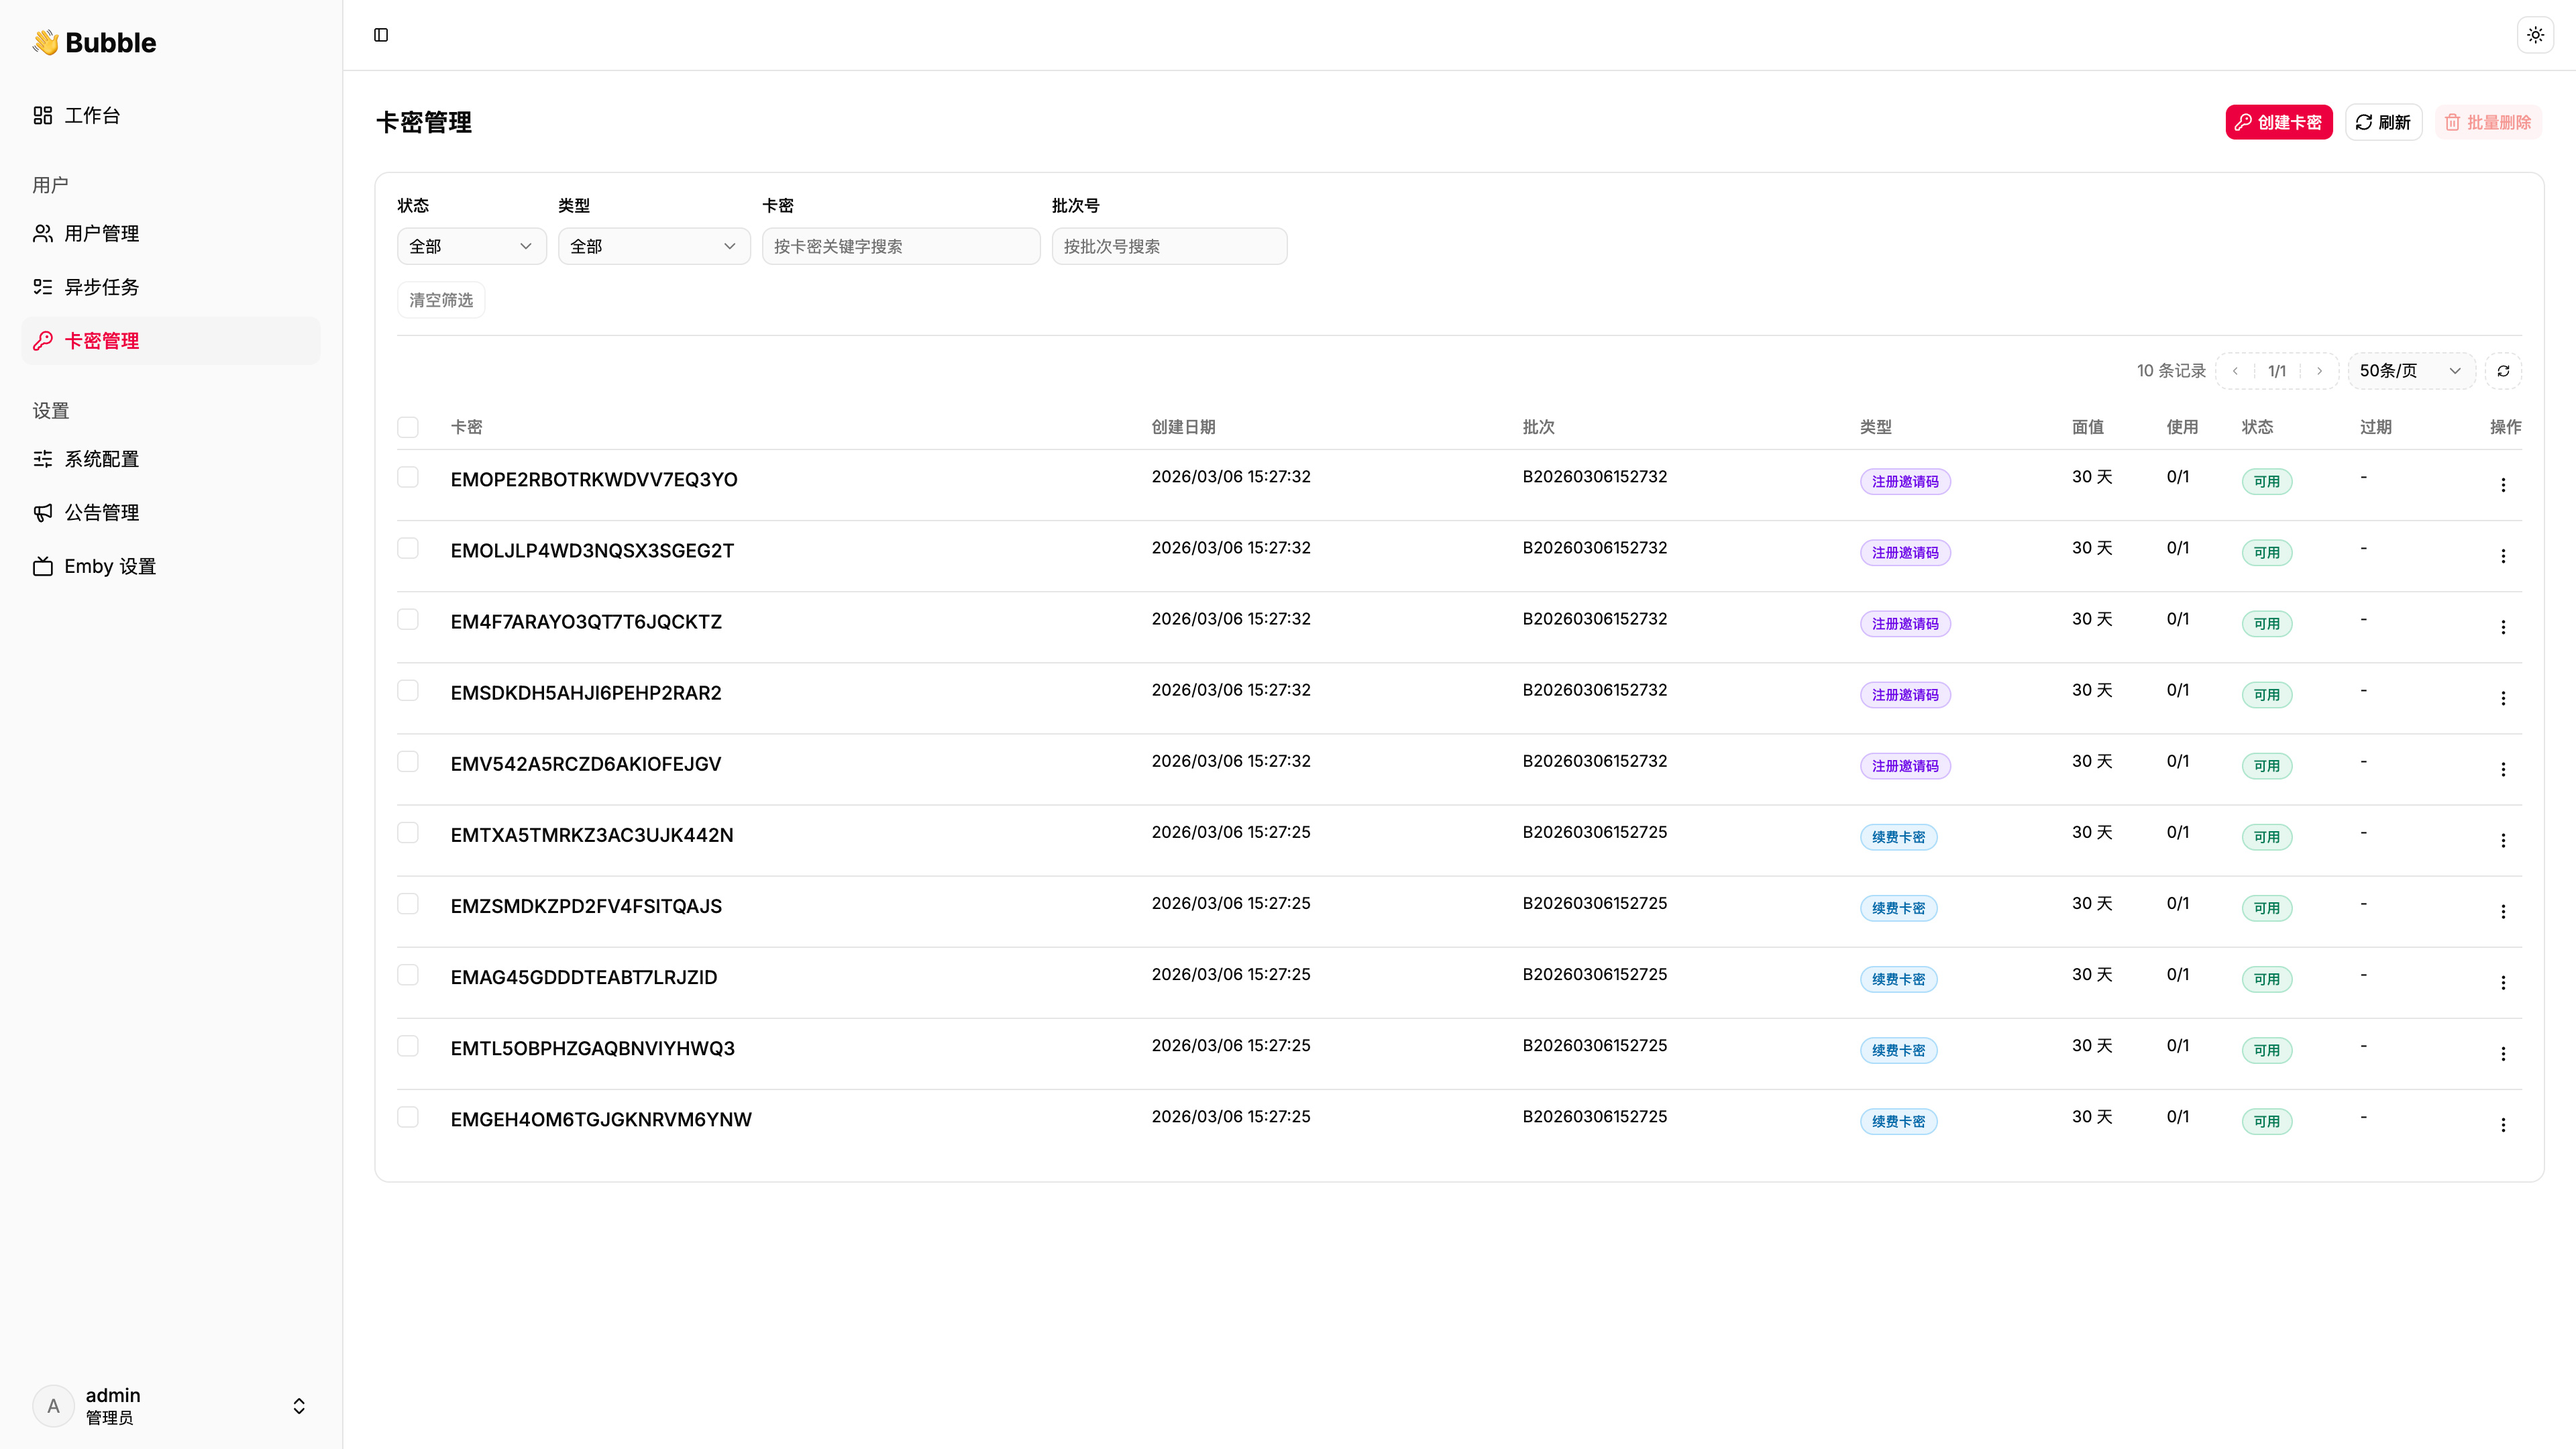
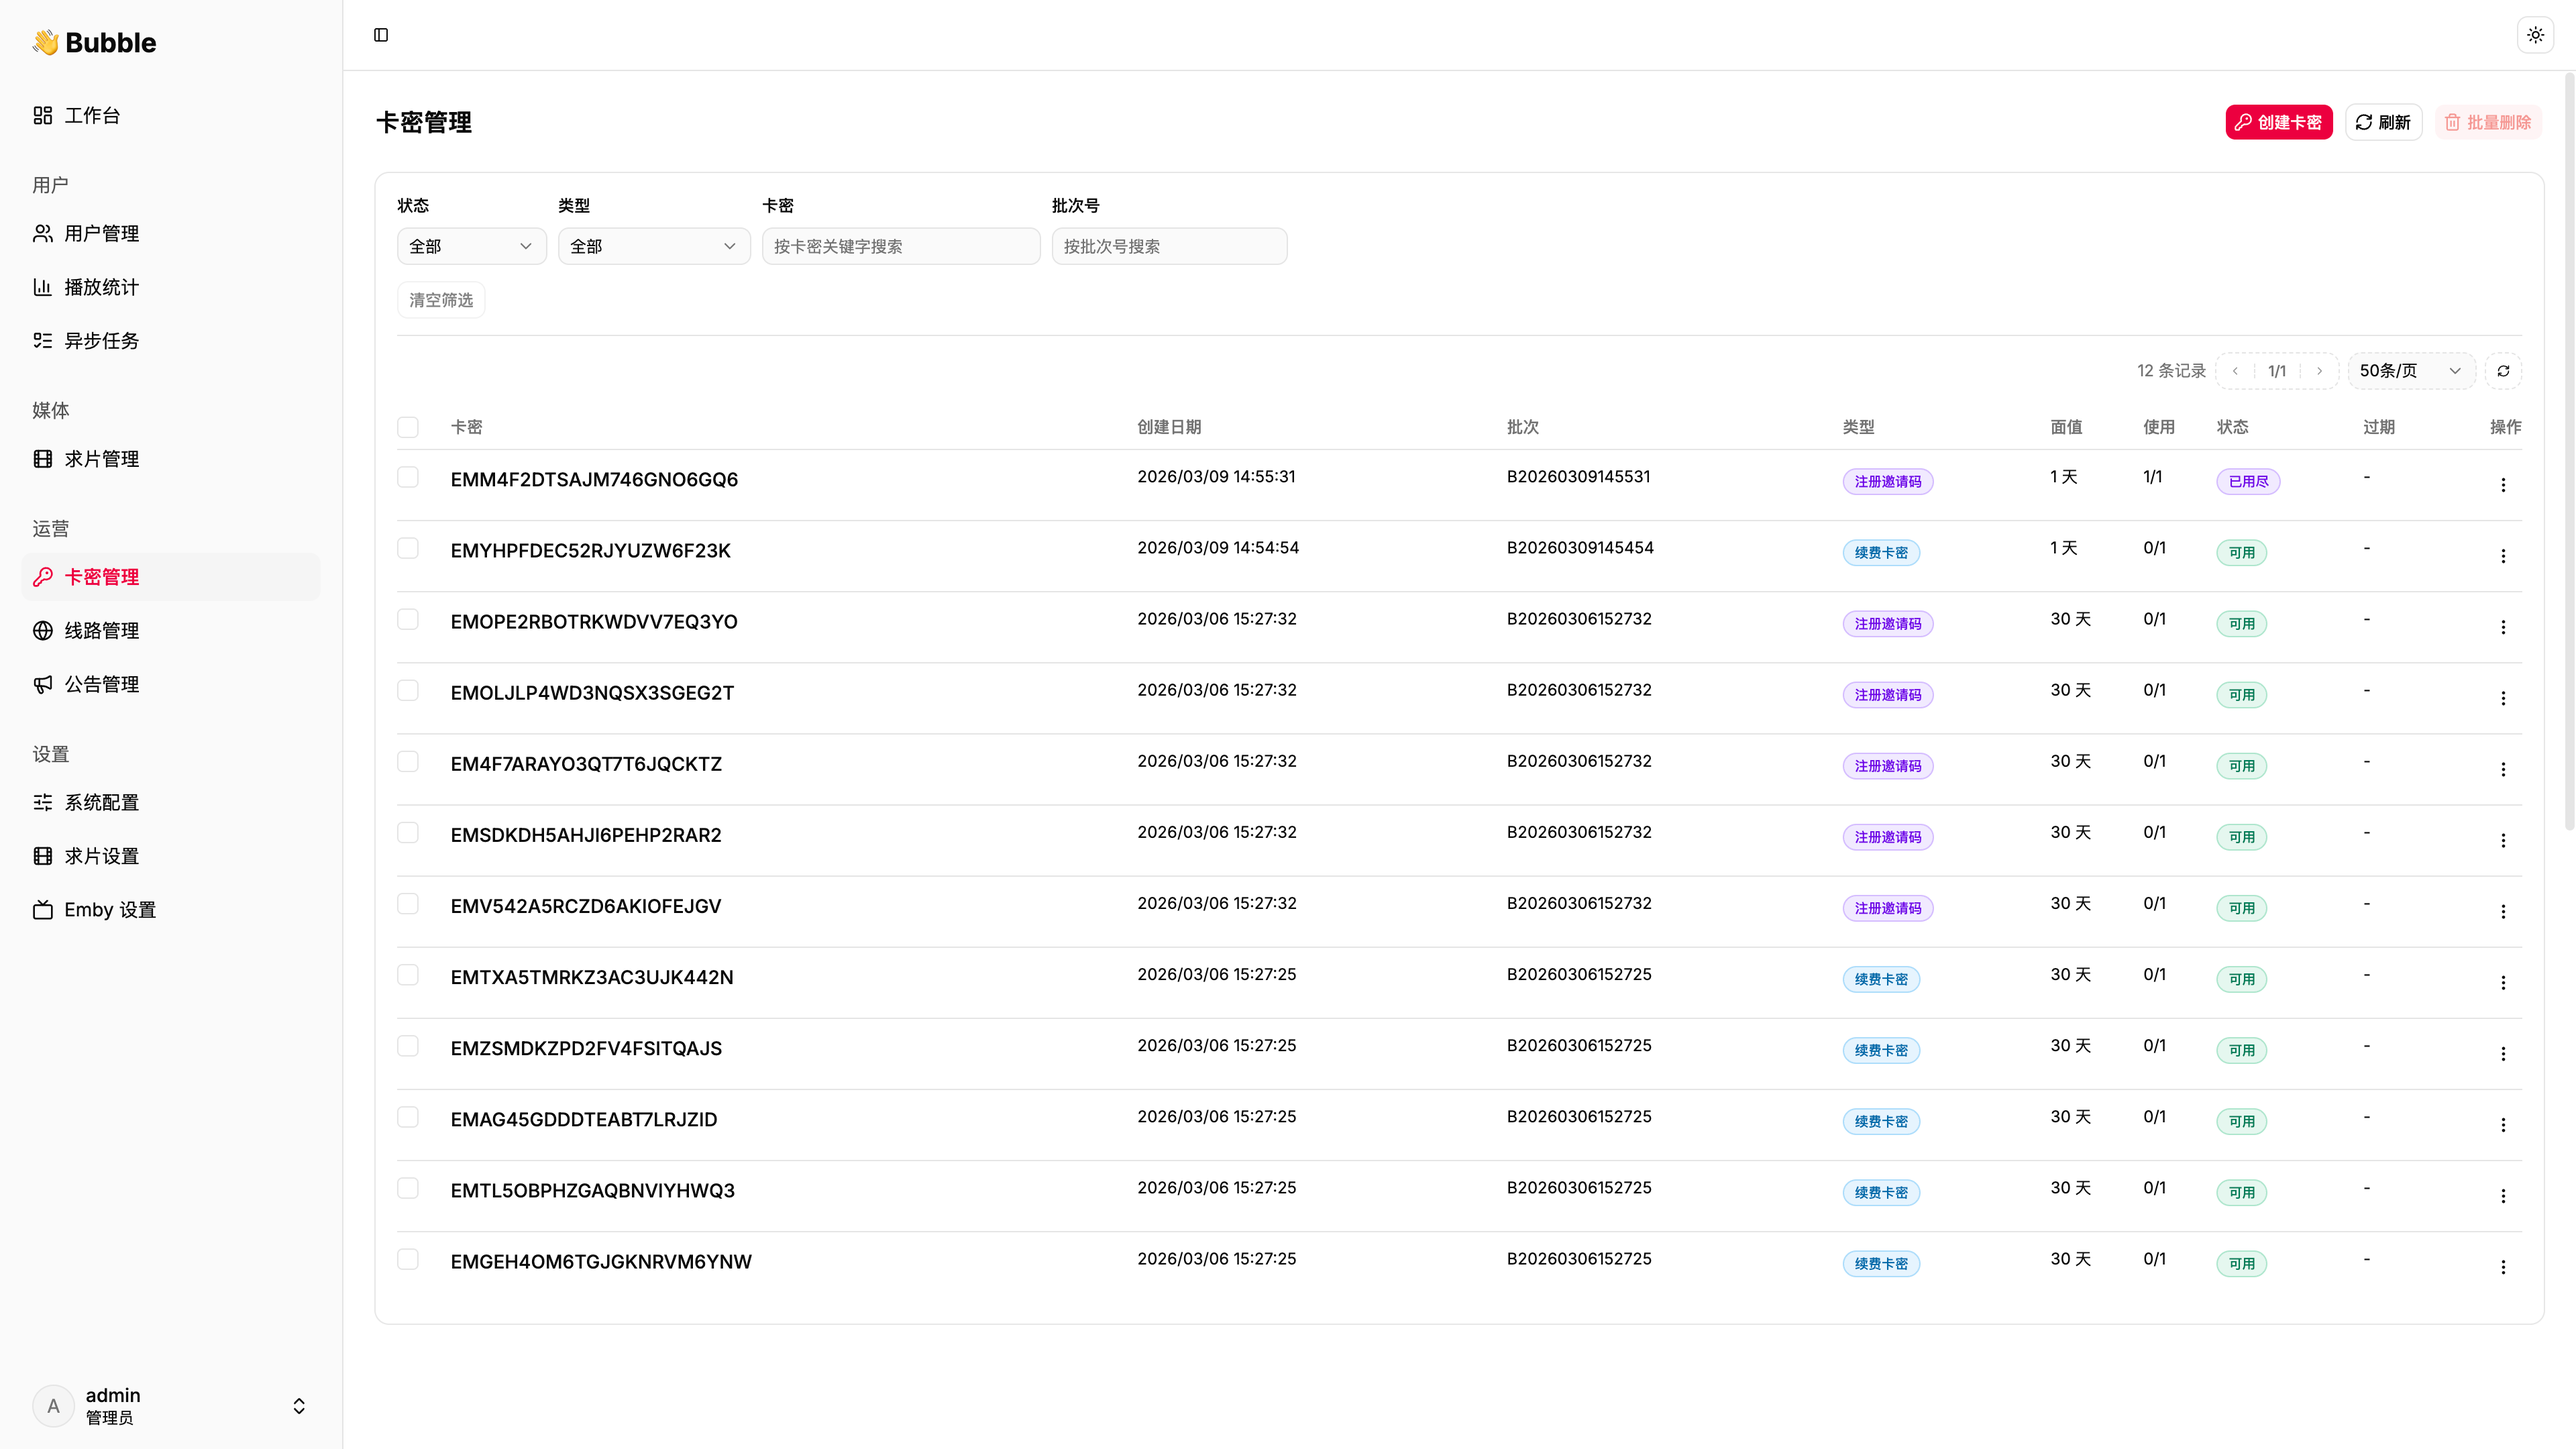
Update documentation

diff --git a/README.md b/README.md
@@ -30,6 +30,17 @@
   - 最近 30 天观看时长
   - 设备 / IP
   - 服务器线路
+  - 卡密续费
+
+- 🎬 求片系统
+  - 电影求片
+  - 整剧求片
+  - 单季求片
+  - 热门推荐与搜索
+  - 我的求片
+  - 用户求片次数限制
+  - 自动检测入库
+  - Emby Webhook 实时闭环
 
 - 🎫 卡密系统
   - 支持自定义天数卡密
@@ -49,11 +60,13 @@
 
 - ⚙ 系统配置
   - Emby 服务配置
+  - Emby Webhook 配置
   - 站点名称配置
   - 登录提示配置
   - 注册规则配置
   - 兑换规则配置
   - 版本更新检查
+  - 求片设置
 
 - 🌐 线路管理
   - 独立线路管理页面
@@ -93,6 +106,17 @@
   - 最近 30 天观看时长
   - 设备 / IP
   - 服务器线路
+  - 多页面导航布局
+  - 卡密续费 / 兑换记录合并
+- [x] 求片系统
+  - 电影 / 整剧 / 单季求片
+  - 热门推荐与 TMDB 搜索
+  - 后台求片管理
+  - 求片设置
+  - MoviePilot 推送
+  - 用户求片次数限制
+  - 定时扫描自动闭环
+  - Emby Webhook 实时闭环
 - [x] 线路管理
   - 独立线路管理页面
   - 线路显示开关
@@ -138,6 +162,10 @@
   </p>
   <p>
     <img src="./assets/screenshots/admin-emby.png" alt="Emby 设置与模板" width="99%" />
+  </p>
+  <p>
+    <img src="./assets/screenshots/admin-media-request.png" alt="后台求片管理" width="49%" />
+    <img src="./assets/screenshots/user-media-requests.png" alt="用户求片页面" width="49%" />
   </p>
 </details>
 

diff --git a/CHANGELOG.md b/CHANGELOG.md
@@ -1,5 +1,25 @@
 # 更新日志
 
+## [0.3.0] - 2026-03-13
+
+### Added
+
+- 新增求片系统，支持电影、整剧、单季求片
+- 新增后台求片管理和求片设置页面
+- 新增 MoviePilot 推送和可选的自动推送 MP
+- 新增用户求片次数限制，支持按天 / 周 / 月配置
+- 新增 Emby Webhook 入库通知，可自动完成求片工单
+
+### Changed
+
+- 用户中心改为多页面结构，保留原有导航样式
+- 卡密续费与兑换记录合并为同一页面
+- 自动闭环升级为“定时扫描 + Emby Webhook”双兜底
+
+### Fixed
+
+- 修复电影 `library.new` webhook 在 Emby 索引延迟时无法自动完成工单的问题
+
 ## [0.2.4] - 2026-03-12
 
 ### Added
